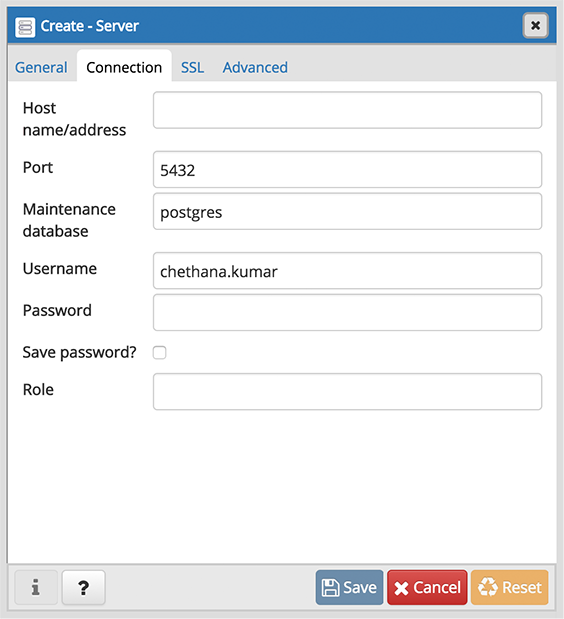
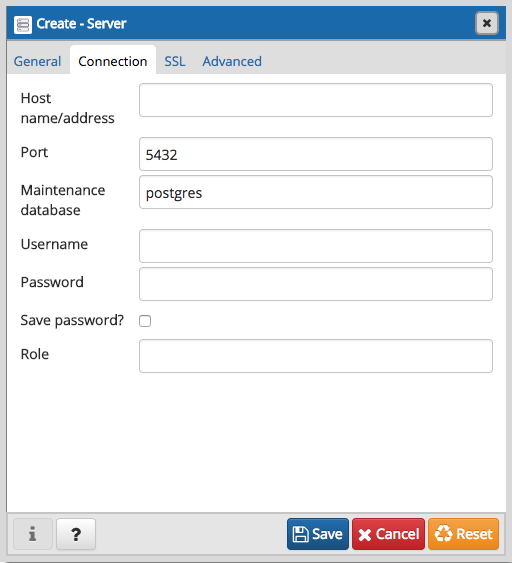
Doc updates for server connection dialogue and related info.

diff --git a/docs/en_US/server_dialog.rst b/docs/en_US/server_dialog.rst
@@ -4,22 +4,17 @@
 The Server Dialog
 *****************
 
-Use the *Server* dialog to describe a connection to a server. Note: you must ensure the pg_hba.conf file of the server
-from which you are connecting allows connections from the host of the client.
-
-The *Server* dialog organizes the connection of a server through the following dialog tabs: *General*, and *Connection*.
+Use the *Server* dialog to describe a connection to a server. Note: you must ensure that the pg_hba.conf file of the server from which you are connecting allows connections from the host of the client.
 
 .. image:: images/server_general.png
 
 Use the fields in the *General* tab to identify the server:
 
-* Use the *Name* field to add a descriptive name for the server; the name specified will be displayed in the *pgAdmin*
-  tree control of the client.
-* Use the drop-down list box in the *Server group* field to specify the *pgAdmin* tree control parent node for the server.
+* Use the *Name* field to add a descriptive name for the server; the name specified will be displayed in the *Browser* tree control.
+* Use the drop-down list box in the *Server group* field to select the parent node for the server; the server will be displayed in the *Browser* tree control within the specified group.
 * Use the color-picker in the *Background* field to specify the background color for the server.
 * Use the color-picker in the *Foreground* field to specify the foreground color for the server.
-* Uncheck the checkbox next to *Connect now?* to instruct pgAdmin not to attempt a connection upon completion of the
-  dialog. The default enables connection.
+* If the *Connect now?* checkbox is checked, the client will attempt a connection to the server upon completion of the dialog; this is the default
 * Provide a comment about the server in the *Comments* field.
 
 Click the *Connection* tab to continue.
@@ -28,55 +23,31 @@ Click the *Connection* tab to continue.
 
 Use the fields in the *Connection* tab to configure a connection:
 
-* Specify the IP address of the server host, or the fully qualified domain name in the *Host name/address* field. On
-  Unix based systems, the address field may be left blank to use the default PostgreSQL Unix Domain Socket on the local
-  machine, or may be set to an alternate path containing a PostgreSQL socket. If you enter a path, the path must begin
-  with a "/".
+* Specify the IP address of the server host, or the fully qualified domain name in the *Host name/address* field. On Unix based systems, the address field may be left blank to use the default PostgreSQL Unix Domain Socket on the local machine, or may be set to an alternate path containing a PostgreSQL socket. If you enter a path, the path must begin with a "/".
 * Enter the listener port number of the server host in the *Port* field. The default is *5432*.
-* Use the *Maintenance database* field to specify the name of the initial database to which the client will connect.
-  If you will be using pgAgent or adminpack objects, the pgAgent schema and adminpack objects should be installed on that
-  database.
-* Use the *User name* field to specify the name of a role that will be used when authenticating with the server.
+* Use the *Maintenance database* field to specify the name of the initial database to which the client will connect. If you will be using pgAgent or adminpack objects, the pgAgent schema and adminpack objects should be installed on that database.
+* Use the *Username* field to specify the name of a role that will be used when authenticating with the server.
 * Use the *Password* field to provide a password that will be supplied when authenticating with the server.
-* Check the box next to *Save password* to instruct pgAdmin to save the password for future use.
-* Use the *Role* field to specify the name of a role that has privileges that will be conveyed to the client after
-  authentication with the server. This selection allows you to connect as one role, and then assume the permissions of
-  this specified role after the connection is established. Note that the connecting role must be a member of the role
-  specified.
+* Check the box next to *Save password?* to instruct pgAdmin to save the password for future use.
+* Use the *Role* field to specify the name of a role that has privileges that will be conveyed to the client after authentication with the server. This selection allows you to connect as one role, and then assume the permissions of this specified role after the connection is established. Note that the connecting role must be a member of the role specified.
 
 Click the *SSL* tab to continue.
 
 .. image:: images/server_ssl.png
 
-Use the fields in the *SSL* tab to configure a SSL:
+Use the fields in the *SSL* tab to configure SSL:
 
-* Use the drop-down list box in the SSL field to select the type of SSL connection the server should use. For more
-  information about using SSL encryption, see Section 31.18 of the Postgres documentation:
+* Use the drop-down list box in the *SSL* field to select the type of SSL connection the server should use. For more information about using SSL encryption, see Section 33.18 of the `Postgres documentation <https://www.postgresql.org/docs/current/static/libpq-ssl.html>`_.
 
-   http://www.postgresql.org/docs/9.5/static/libpq-ssl.html
+If pgAdmin is installed in Server mode (the default mode), you can use the platform-specific File manager dialog to upload files that support SSL encryption to the server.  To access the File manager dialog, click the icon that is located to the right of each of the following fields.
 
-* Specify the file containing the name of the client SSL certificate, replacing the default *~/.postgresql/postgresql.crt*
-  in case of Desktop mode and *<STORAGE_DIR>/<USERNAME>/.postgresql/postgresql.crt* in case of Web mode. This parameter
-  is ignored if an SSL connection is not made.
-* Specify the file containing the secret key used for the client certificate, replacing the default *~/.postgresql/postgresql.key*
-  in case of Desktop mode and *<STORAGE_DIR>/<USERNAME>/.postgresql/postgresql.key* in case of Web mode. This parameter
-  is ignored if an SSL connection is not made.
-* Specify the file containing the SSL certificate authority, replacing the default *~/.postgresql/root.crt*. This
-  parameter is ignored if an SSL connection is not made.
-* Specify the file containing the SSL certificate revocation list, replacing the default *~/.postgresql/root.crl*. This
-  parameter is ignored if an SSL connection is not made.
-* If set to True, data sent over SSL connections will be compressed else compression will be disabled, The default
-  is *False*. This parameter is ignored if an SSL connection is not made, see Section 32.1.2 of the Postgres documentation
-  for more details:
+* Use the *Client certificate* field to specify the file containing the client SSL certificate.  This file will replace the default *~/.postgresql/postgresql.crt* if pgAdmin is installed in Desktop mode, and *<STORAGE_DIR>/<USERNAME>/.postgresql/postgresql.crt* if pgAdmin is installed in Web mode. This parameter is ignored if an SSL connection is not made.
+* Use the *Client certificate key* field to specify the file containing the secret key used for the client certificate.  This file will replace the default *~/.postgresql/postgresql.key* if pgAdmin is installed in Desktop mode, and *<STORAGE_DIR>/<USERNAME>/.postgresql/postgresql.key* if pgAdmin is installed in Web mode. This parameter is ignored if an SSL connection is not made.
+* Use the *Root certificate* field to specify the file containing the SSL certificate authority.  This file will replace the default *~/.postgresql/root.crt*. This parameter is ignored if an SSL connection is not made.
+* Use the *Certificate revocation list* field to specify the file containing the SSL certificate revocation list.  This list will replace the default list, found in *~/.postgresql/root.crl*. This parameter is ignored if an SSL connection is not made.
+* When *SSL compression?* is set to *True*, data sent over SSL connections will be compressed.  The default value is *False* (compression is disabled).  This parameter is ignored if an SSL connection is not made.
 
-In Server mode, files can be uploaded to the server using the File chooser dialog.
-
-   https://www.postgresql.org/docs/9.6/static/libpq-connect.html
-
-*WARNING:* In Server mode, certificates, private keys and the revocation list are stored in the per-user file storage
-area on the server, which is owned by the user account under which the pgAdmin server process is run. This means that
-administrators of the server may be able to access those files, so appropriate caution should be taken before choosing
-to use this feature.
+*WARNING:* In Server mode, certificates, private keys, and the revocation list are stored in the per-user file storage area on the server, which is owned by the user account under which the pgAdmin server process is run. This means that administrators of the server may be able to access those files; appropriate caution should be taken before choosing to use this feature.
 
 Click the *Advanced* tab to continue.
 
@@ -84,18 +55,12 @@ Click the *Advanced* tab to continue.
 
 Use the fields in the *Advanced* tab to configure a connection:
 
-* Specify the IP address of the server host. Using this field to specify the host IP address will avoid a DNS lookup on
-  connection, however it may be useful to specify both a host name and address when using Kerberos, GSSAPI, or SSPI
-  authentication methods, as well as for verify-full SSL certificate verification
-* The DB restriction field allows you to enter an SQL restriction that will be used against the pg_database table to
-  limit the databases that you see. For example, you might enter: *live_db test_db* so that only live_db and test_db are
-  shown in the pgAdmin browser. Separate entries with a comma or tab as you type.
-* Specify the password file which allow user to login without providing password, see Section 33.15 of the Postgres documentation:
-
-   https://www.postgresql.org/docs/current/static/libpq-pgpass.html
+* Specify the IP address of the server host in the *Host address* field. Using this field to specify the host IP address may save time by avoiding a DNS lookup on connection, but it may be useful to specify both a host name and address when using Kerberos, GSSAPI, or SSPI authentication methods, as well as for verify-full SSL certificate verification.
+* Use the *DB restriction* field to provide a SQL restriction that will be used against the pg_database table to limit the databases that you see. For example, you might enter: *live_db test_db* so that only live_db and test_db are shown in the pgAdmin browser. Separate entries with a comma or tab as you type.
+* Use the *Password File* field to specify the location of a password file (.pgpass). A .pgpass file allows a user to login without providing a password when they connect.  For more information, see Section 33.15 of the `Postgres documentation <http://www.postgresql.org/docs/current/static/libpq-pgpass.html>`_.
 
 *NOTE:* The password file option is only supported when pgAdmin is using libpq v10.0 or later to connect to the server.
 
-* Click the *Save* button to save work.
-* Click the *Cancel* button to exit without saving work.
-* Click the *Reset* button to restore configuration parameters.
+* Click the *Save* button to save your work.
+* Click the *Cancel* button to exit without saving your work.
+* Click the *Reset* button to return the values specified on the Server dialog to their original condition.

diff --git a/docs/en_US/pgadmin_tabbed_browser.rst b/docs/en_US/pgadmin_tabbed_browser.rst
@@ -4,46 +4,44 @@
 The pgAdmin Tabbed Browser 
 **************************
 
-The right pane of the *pgAdmin* window features a collection of tabs that display information about the object currently selected in the *pgAdmin* tree control in the left window.  
-   
-Permanent tabs are named *Dashboard, *Properties*, *SQL*, *Statistics*, *Dependencies* and *Dependents*; each tab may be repositioned as a floating window. Select a tab to access information about the highlighted object in the tree control. 
+The right pane of the *pgAdmin* window features a collection of tabs that display information about the object currently selected in the *pgAdmin* tree control in the left window.  Select a tab to access information about the highlighted object in the tree control. 
 
 .. image:: images/main_dashboard.png 
 
-The *Dashboard* tab provides a graphical analysis of the usage statistics for the selected server or database:
+The graphs on the *Dashboard* tab provides an active analysis of the usage statistics for the selected server or database:
 
 * The *Server sessions* or *Database sessions* graph displays the interactions with the server or database.
 * The *Transactions per second* graph displays the commits, rollbacks, and total transactions per second that are taking place on the server or database.
-* The *Tuples In* graph displays the number of tuples inserted, updated, and deleted on the server or database.
+* The *Tuples in* graph displays the number of tuples inserted, updated, and deleted on the server or database.
 * The *Tuples out* graph displays the number of tuples fetched and returned from the server or database.
 * The *Block I/O* graph displays the number of blocks read from the filesystem or fetched from the buffer cache (but not the operating system's file system cache) for the server or database.
 
-The *Server activity* panel displays information about sessions, locks, prepared transactions and configuration. The information is presented in context-sensitive tables.
+The *Server activity* panel displays information about sessions, locks, prepared transactions, and server configuration (if applicable). The information is presented in context-sensitive tables.  Use controls located above the table to:
 
-Click the *Properties* tab to continue.
+* Click the *Refresh* button to update the information displayed in each table.
+* Enter a value in the *Search* box to restrict the table content to one or more sessions that satisfy the search criteria.  For example, you can enter a process ID to locate a specific session, or a session state (such as *idle*) to locate all of the sessions that are in an idle state.
+
+You can use icons in the *Sessions* table to review or control the state of a session:
+
+* Use the *Terminate* icon (located in the first column) to stop a session and remove the session from the table.  Before the server terminates the session, you will be prompted to confirm your selection.
+* Use the *Cancel* icon (located in the second column) to terminate an active query without closing the session.  Before canceling the query, the server will prompt you to confirm your selection.  When you cancel a query, the value displayed in the *State* column of the table will be updated from *Active* to *Idle*.  The session will remain in the table until the session is terminated.
+* Use the *Details* icon (located in the third column) to open the *Details* tab; the tab displays information about the selected session. 
 
 .. image:: images/main_properties_table.png
 
-Review properties on expandable windows specific to the *Object* selected. If multiple boxes are displayed, you can click the arrow to the left on the blue bar at the top of each box:
-
- * Point the arrow to the right to contract the box.
- * Point the arrow down to expand the window. 
-
-.. image:: images/main_properties_edit.png 
-
-Click the *Edit* icon in the toolbar under the browser tabs to launch a dialog. 
+The *Properties* tab displays information about the object selected. Click the *Edit* icon in the toolbar under the browser tabs to launch the *Properties* dialog for the selected object. 
 
 .. image:: images/main_properties_icons.png
 
-If you change properties in the opened dialog, save your work. The *Properties* tab updates to show recent modifications. 
+To preserve any changes to the *Properties* dialog, click the *Save* icon; your modifications will be displayed in the updated *Properties* tab. 
 
-Click the *SQL* tab to continue.
+.. image:: images/main_properties_edit.png 
+
+Details about the object highlighted in the tree control are displayed in one or more collapsible panels. You can use the arrow to the left of each panel label to open or close a panel.
 
 .. image:: images/main_sql.png
 
-The SQL pane on the *SQL* tab contains an SQL script that creates the highlighted object, and if applicable, a (commented out) SQL statement that will *DROP* the selected object. You can copy the SQL statements to an editor of your choice using cut & paste shortcuts.
-
-Click the *Statistics* tab to continue.
+The *SQL* tab displays the SQL script that created the highlighted object, and when applicable, a (commented out) SQL statement that will *DROP* the selected object. You can copy the SQL statements to the editor of your choice using cut and paste shortcuts.
 
 .. image:: images/main_statistics.png
 
@@ -103,11 +101,9 @@ The *Statistics* tab displays the statistics gathered for each object on the tre
 | *Size*                     | displays the size (in megabytes) of the selected database.                                                 |
 +----------------------------+------------------------------------------------------------------------------------------------------------+
 
-Click the *Dependencies* tab to continue.
-
 .. image:: images/main_dependencies.png 
 
-The *Dependencies* tab displays the objects on which the currently selected object depends. If a dependency is dropped, the object currently selected in the pgAdmin tree control will be affected. To ensure the integrity of the entire database structure, the database server makes sure that you do not accidentally drop objects that other objects depend on; you must use DROP CASCADE to remove an object with a dependency.
+The *Dependencies* tab displays the objects on which the currently selected object depends. If a dependency is dropped, the object currently selected in the pgAdmin tree control will be affected. To ensure the integrity of the entire database structure, the database server makes sure that you do not accidentally drop objects that other objects depend on; you must use the DROP CASCADE command to remove an object with a dependency.
 
 The *Dependencies* table displays the following information:
 
@@ -119,8 +115,6 @@ The *Dependencies* table displays the following information:
    * If the field is *normal*, the selected object can be dropped without dropping the parent object.
    * If the field is *blank*, the selected object is required by the system, and cannot be dropped.
      
-Click the *Dependents* tab to continue.
-
 .. image:: images/main_dependents.png
 
 The *Dependents* tab displays a table of objects that depend on the object currently selected in the *pgAdmin* browser. A dependent object can be dropped without affecting the object currently selected in the *pgAdmin* tree control.
@@ -129,9 +123,8 @@ The *Dependents* tab displays a table of objects that depend on the object curre
 * The *Name* field specifies the identifying name for the dependent object.
 * The *Database* field specifies the database in which the object resides.
 
-**Feature Tabs**
-
-Additional *feature tabs* will open in the *pgAdmin* tabbed browser when you access the extended functionality offered by pgAdmin tools. For example, if you select the *Query tool* from *Tools* in the menu bar, pgAdmin will open the Query tool on a tab labeled *Query-1*. These feature tabs are not permanent and you can close them when you are finished using the tool. Like permanent tabs, these tabs may be repositioned.
-
 .. image:: images/main_query_tool.png
 
+Additional tabs open when you access the extended functionality offered by pgAdmin tools (such as the Query tool, Debugger, or SQL editor). Use the close icon (X) located in the upper-right corner of each tab to close the tab when you are finished using the tool. Like permanent tabs, these tabs may be repositioned in the pgAdmin client window.
+
+By default, each time you open a tool, pgAdmin will open a new browser tab. You can control this behavior by modifying the *Display* node of the *Preferences* dialog for each tool. To open the *Preferences* dialog, select *Preferences* from the *File* menu.
